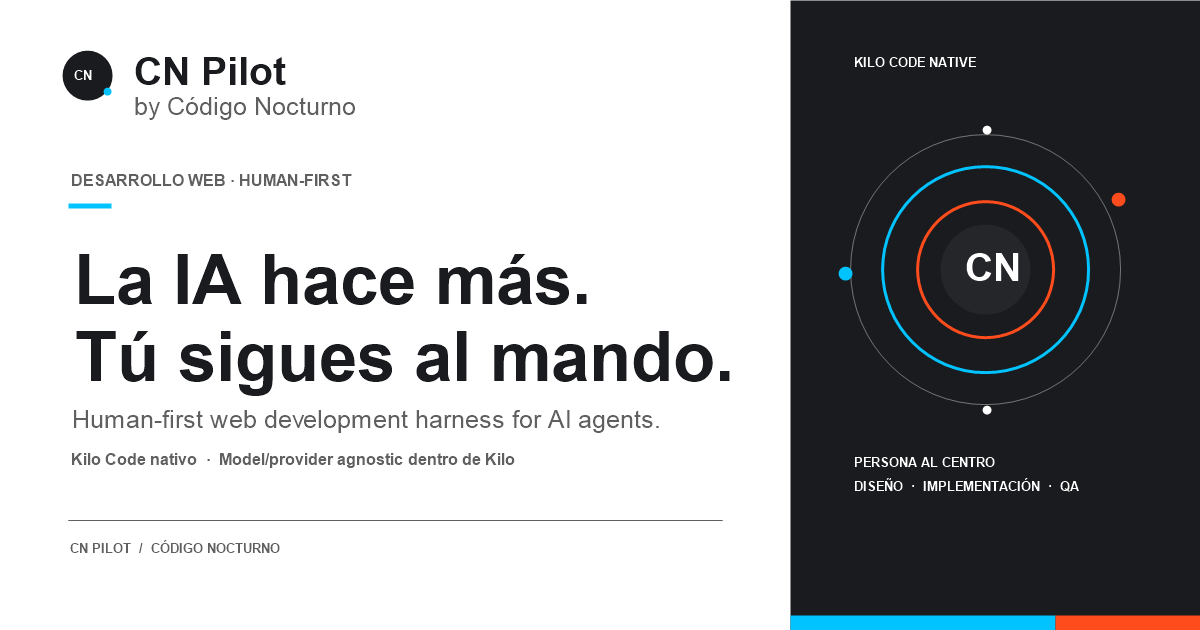
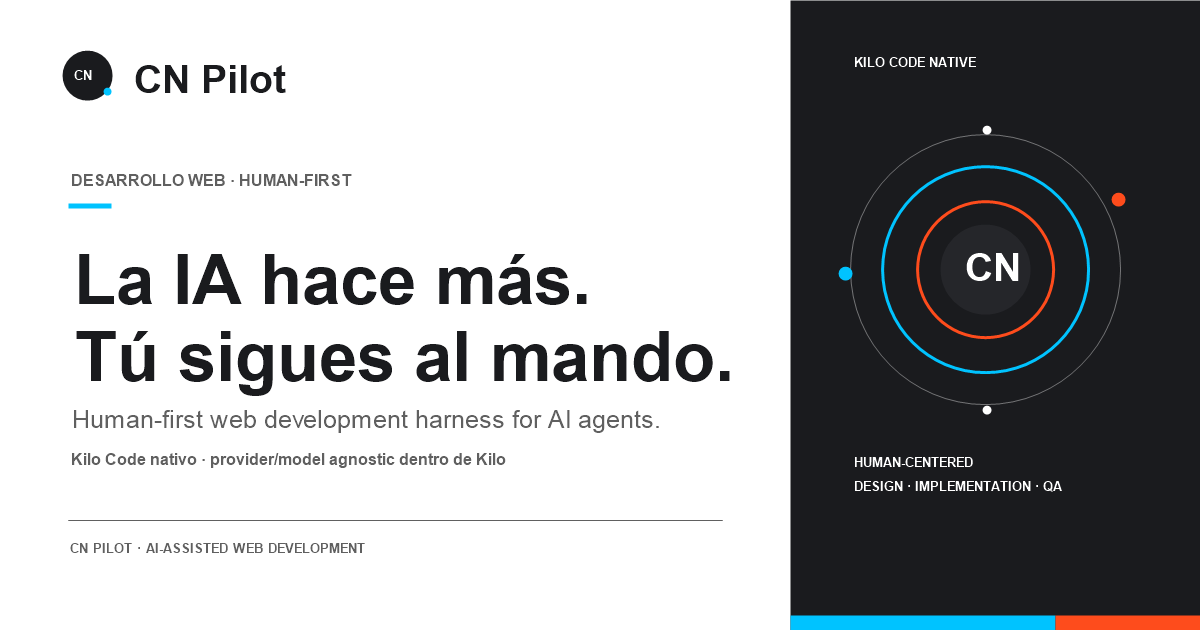
docs: retirar branding de Código Nocturno

diff --git a/assets/styles.css b/assets/styles.css
@@ -6,7 +6,6 @@
 @media(max-width:680px){.site-header{height:70px;padding-inline:22px}.menu-toggle{display:flex;gap:8px;align-items:center;border:0;background:transparent;color:var(--ink);font:600 12px var(--font-body);padding:10px}.menu-toggle span{color:var(--orange);font-size:18px}.site-nav{display:none;position:absolute;z-index:5;top:69px;left:0;right:0;padding:18px 22px 24px;flex-direction:column;align-items:stretch;gap:0;background:var(--paper);border-bottom:1px solid var(--line)}.site-nav.is-open{display:flex}.site-nav a{padding:12px 4px}.site-nav .nav-cta{margin-top:8px;padding:13px}.hero{padding:73px 25px 70px;display:block;min-height:0}.hero h1{font-size:clamp(43px,11vw,61px)}.hero-lede{font-size:16px}.hero-actions{align-items:flex-start;flex-direction:column;gap:18px}.hero-meta{font-size:10px}.hero-visual{height:340px;margin-top:55px}.node-human{left:3%}.node-design{right:3%}.node-build{right:2%}.node-qa{left:5%}.hero-index{display:none}.section-shell{width:calc(100% - 48px)}.intro{padding-block:86px;display:block}.intro-content{margin-top:30px}.intro h2{font-size:39px}.intro-content>p{font-size:15px}.workflow{padding-block:83px}.section-heading h2,.journey-heading h2{font-size:43px}.steps{margin-top:42px}.steps li{grid-template-columns:43px 1fr 22px;gap:4px;min-height:0;padding-block:24px}.steps h3{font-size:18px}.steps p{font-size:12px}.step-symbol{font-size:16px}.human-first{padding-block:90px;display:block}.human-copy h2,.modes h2,.compat h2,.architecture h2{font-size:42px}.quote-card{margin-top:40px;padding:32px 27px}.journey{padding-block:83px}.journey-track{grid-template-columns:1fr 22px 1fr;gap:8px}.journey-track article{padding:18px 8px;min-height:210px}.journey-track .track-step{margin-bottom:13px}.journey-track h3{font-size:16px}.journey-track p{font-size:11px}.journey-track .track-tag{font-size:7px}.track-arrow{padding-top:30px}.modes{padding-block:90px;display:block}.mode-grid{margin-top:35px;gap:18px}.mode-grid h3{font-size:17px}.mode-grid p{font-size:12px}.compat{padding-block:84px}.compat-layout{display:block}.compat-list{margin-top:34px}.compat-row{display:block}.compat-state{display:block;margin-top:4px}.start{padding-block:90px}.start h2{font-size:42px}.start-list{margin-top:35px}.start-list li{align-items:flex-start;gap:16px}.start-list p{font-size:12px}.architecture{padding-block:75px}.architecture-inner{display:block}.architecture-map{margin-top:30px;gap:8px}.architecture-map code{font-size:9px}.architecture-map span{font-size:8px}.transparency{padding-block:75px;display:block}.transparency>div{margin-top:22px}.transparency h2{font-size:26px}.closing-inner{min-height:0;padding-block:47px;display:grid;grid-template-columns:1fr auto}.closing-mark{grid-column:1}.closing-inner>p{grid-column:1/-1;grid-row:2;font-size:30px}.closing-inner .button{grid-column:1/-1;grid-row:3;justify-self:start}.site-footer{padding-block:30px;grid-template-columns:1fr;gap:10px}.footer-links{grid-column:auto;flex-wrap:wrap;gap:14px}.site-footer>small{grid-column:auto;margin-top:9px}}
 @media(prefers-reduced-motion:reduce){:root{scroll-behavior:auto}*,*::before,*::after{animation-duration:.01ms!important;animation-iteration-count:1!important;transition-duration:.01ms!important}}
 
-/* Identidad contrastada con el sitio vigente de Código Nocturno. */
 :root{--ink:#1a1b1e;--muted:#606060;--paper:#fff;--line:#e4e6e7;--green:#1a1b1e;--deep:#1a1b1e}
 .hero h1 em,.section-heading h2 em,.human-copy h2 em,.modes h2 em,.compat h2 em,.architecture h2 em{color:#606060}
 .eyebrow,.section-kicker{color:#606060}
@@ -25,5 +24,3 @@
 .visual-top,.visual-bottom,.visual-top span,.visual-bottom span{color:#a7adb0}
 .pilot-core small,.journey-track p,.journey-heading>p:last-child{color:#c2c4c5}
 .track-step,.track-tag,.journey .track-step,.journey .track-tag{color:#a7adb0}
-.footer-brand .parent-brand{display:flex;align-items:center;gap:8px}
-.footer-brand .parent-brand img{display:block;width:110px;height:auto;max-width:100%}

diff --git a/index.html b/index.html
@@ -14,13 +14,13 @@
   <meta property="og:image" content="https://luisygm.github.io/CN-Pilot/assets/og-image.png">
   <meta property="og:image:width" content="1200">
   <meta property="og:image:height" content="630">
-  <meta property="og:image:alt" content="CN Pilot by Código Nocturno — La IA hace más. Tú sigues al mando.">
-  <meta property="og:site_name" content="CN Pilot by Código Nocturno">
+  <meta property="og:image:alt" content="CN Pilot — La IA hace más. Tú sigues al mando.">
+  <meta property="og:site_name" content="CN Pilot">
   <meta name="twitter:card" content="summary_large_image">
   <meta name="twitter:title" content="CN Pilot — desarrollo web human-first">
   <meta name="twitter:description" content="Un harness web human-first y nativo de Kilo Code.">
   <meta name="twitter:image" content="https://luisygm.github.io/CN-Pilot/assets/og-image.png">
-  <meta name="twitter:image:alt" content="CN Pilot by Código Nocturno — La IA hace más. Tú sigues al mando.">
+  <meta name="twitter:image:alt" content="CN Pilot — La IA hace más. Tú sigues al mando.">
   <link rel="icon" href="assets/favicon.svg" type="image/svg+xml">
   <link rel="stylesheet" href="assets/styles.css">
   <script src="assets/site.js" defer></script>
@@ -30,7 +30,7 @@
   <header class="site-header">
     <a class="brand" href="#inicio" aria-label="CN Pilot, inicio">
       <span class="brand-mark" aria-hidden="true">CN<span>.</span></span>
-      <span class="brand-name">CN Pilot<small>by Código Nocturno</small></span>
+      <span class="brand-name">CN Pilot</span>
     </a>
     <button class="menu-toggle" aria-expanded="false" aria-controls="site-nav" aria-label="Abrir menú">Menú <span aria-hidden="true">＋</span></button>
     <nav id="site-nav" class="site-nav" aria-label="Navegación principal">
@@ -44,7 +44,7 @@
   <main id="contenido">
     <section class="hero" id="inicio" aria-labelledby="hero-title">
       <div class="hero-copy">
-        <p class="eyebrow"><span class="signal" aria-hidden="true"></span> Un harness web de Código Nocturno</p>
+        <p class="eyebrow"><span class="signal" aria-hidden="true"></span> Human-first web development harness</p>
         <h1 id="hero-title">La IA hace más.<br><em>Tú sigues al mando.</em></h1>
         <p class="hero-lede">Desarrollo web human-first con agentes de IA. Explica el resultado que buscas; CN Pilot organiza contexto, diseño, implementación y QA sin pedirte dirigir cada herramienta.</p>
         <div class="hero-actions">
@@ -107,6 +107,6 @@
 
     <section class="closing"><div class="section-shell closing-inner"><span class="closing-mark" aria-hidden="true">CN<span>.</span></span><p>Haz que la IA trabaje<br><em>a la altura de tu proyecto.</em></p><a class="button button-light" href="https://github.com/LuisYGM/cn-pilot">Explora CN Pilot <span aria-hidden="true">↗</span></a></div></section>
   </main>
-  <footer class="site-footer"><div class="footer-brand"><a href="#inicio">CN Pilot</a><span class="parent-brand">by <a href="https://codigonocturno.com/" aria-label="Código Nocturno"><img src="assets/codigo-nocturno-logo-white.png" width="110" height="31" alt="Código Nocturno" loading="lazy"></a></span></div><p>Harness human-first para proyectos web con IA.</p><div class="footer-links"><a href="https://github.com/LuisYGM/cn-pilot">GitHub</a><a href="https://github.com/LuisYGM/cn-pilot/tree/main/.blueprint/docs">Documentación</a><a href="https://codigonocturno.com/">Código Nocturno ↗</a></div></footer>
+  <footer class="site-footer"><div class="footer-brand"><a href="#inicio">CN Pilot</a></div><p>Human-first web development harness for AI agents.</p><div class="footer-links"><a href="https://github.com/LuisYGM/cn-pilot">GitHub</a><a href="https://github.com/LuisYGM/cn-pilot/tree/main/.blueprint/docs">Documentación</a></div></footer>
 </body>
 </html>
